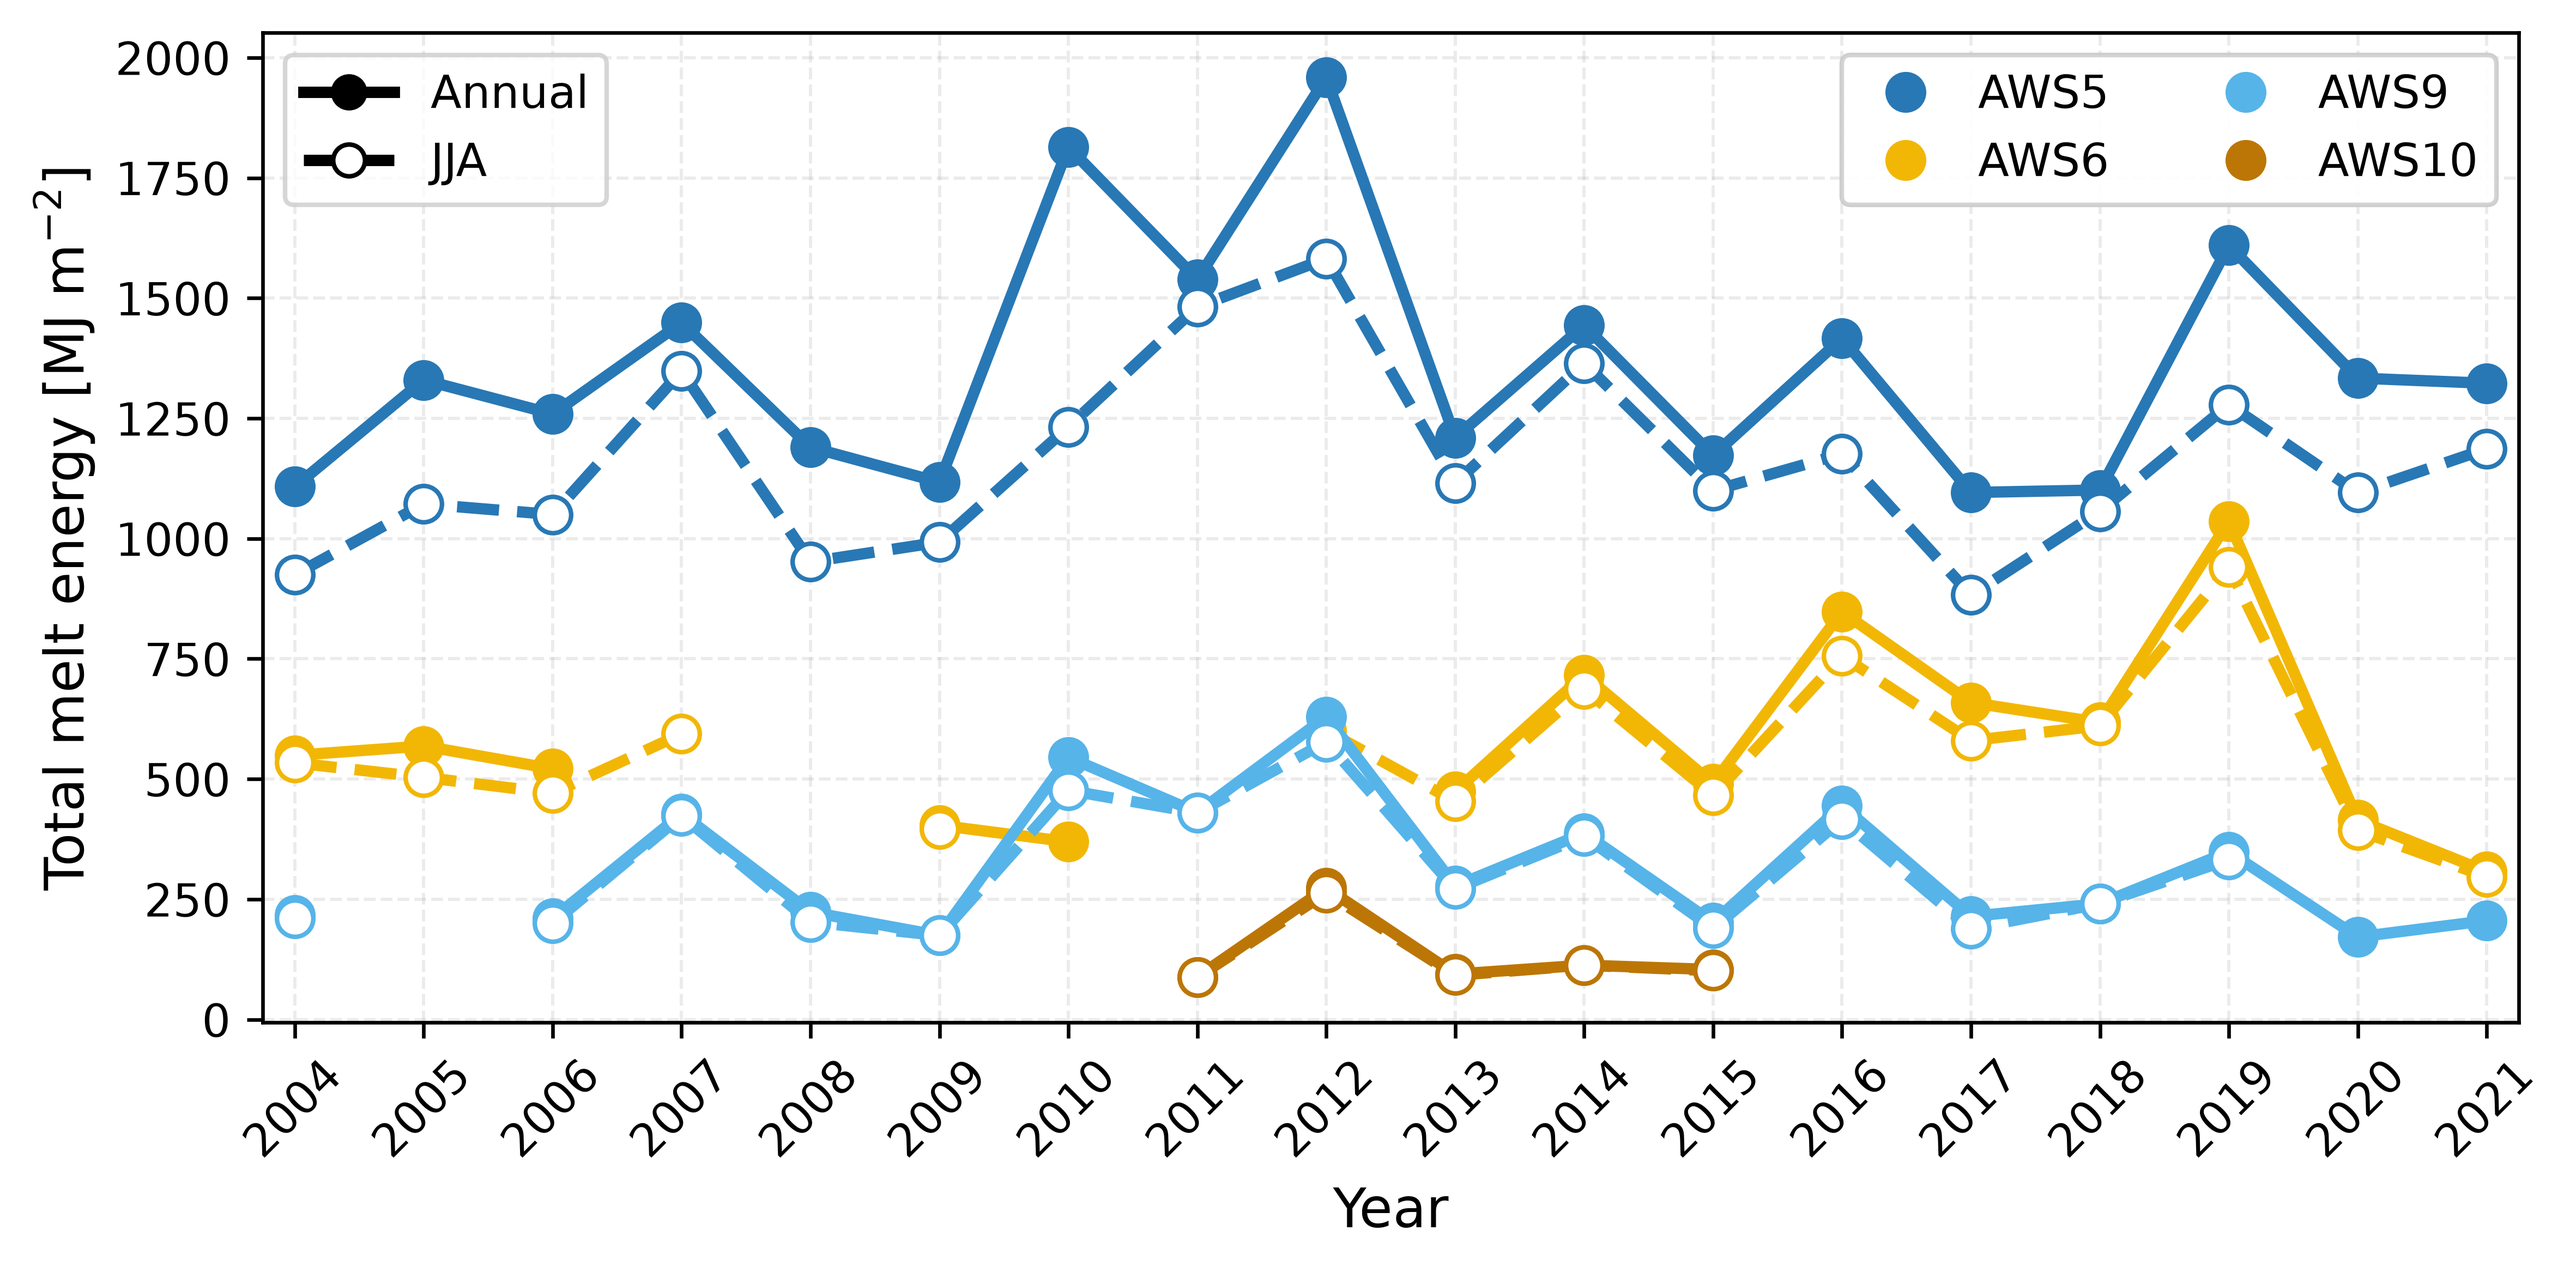
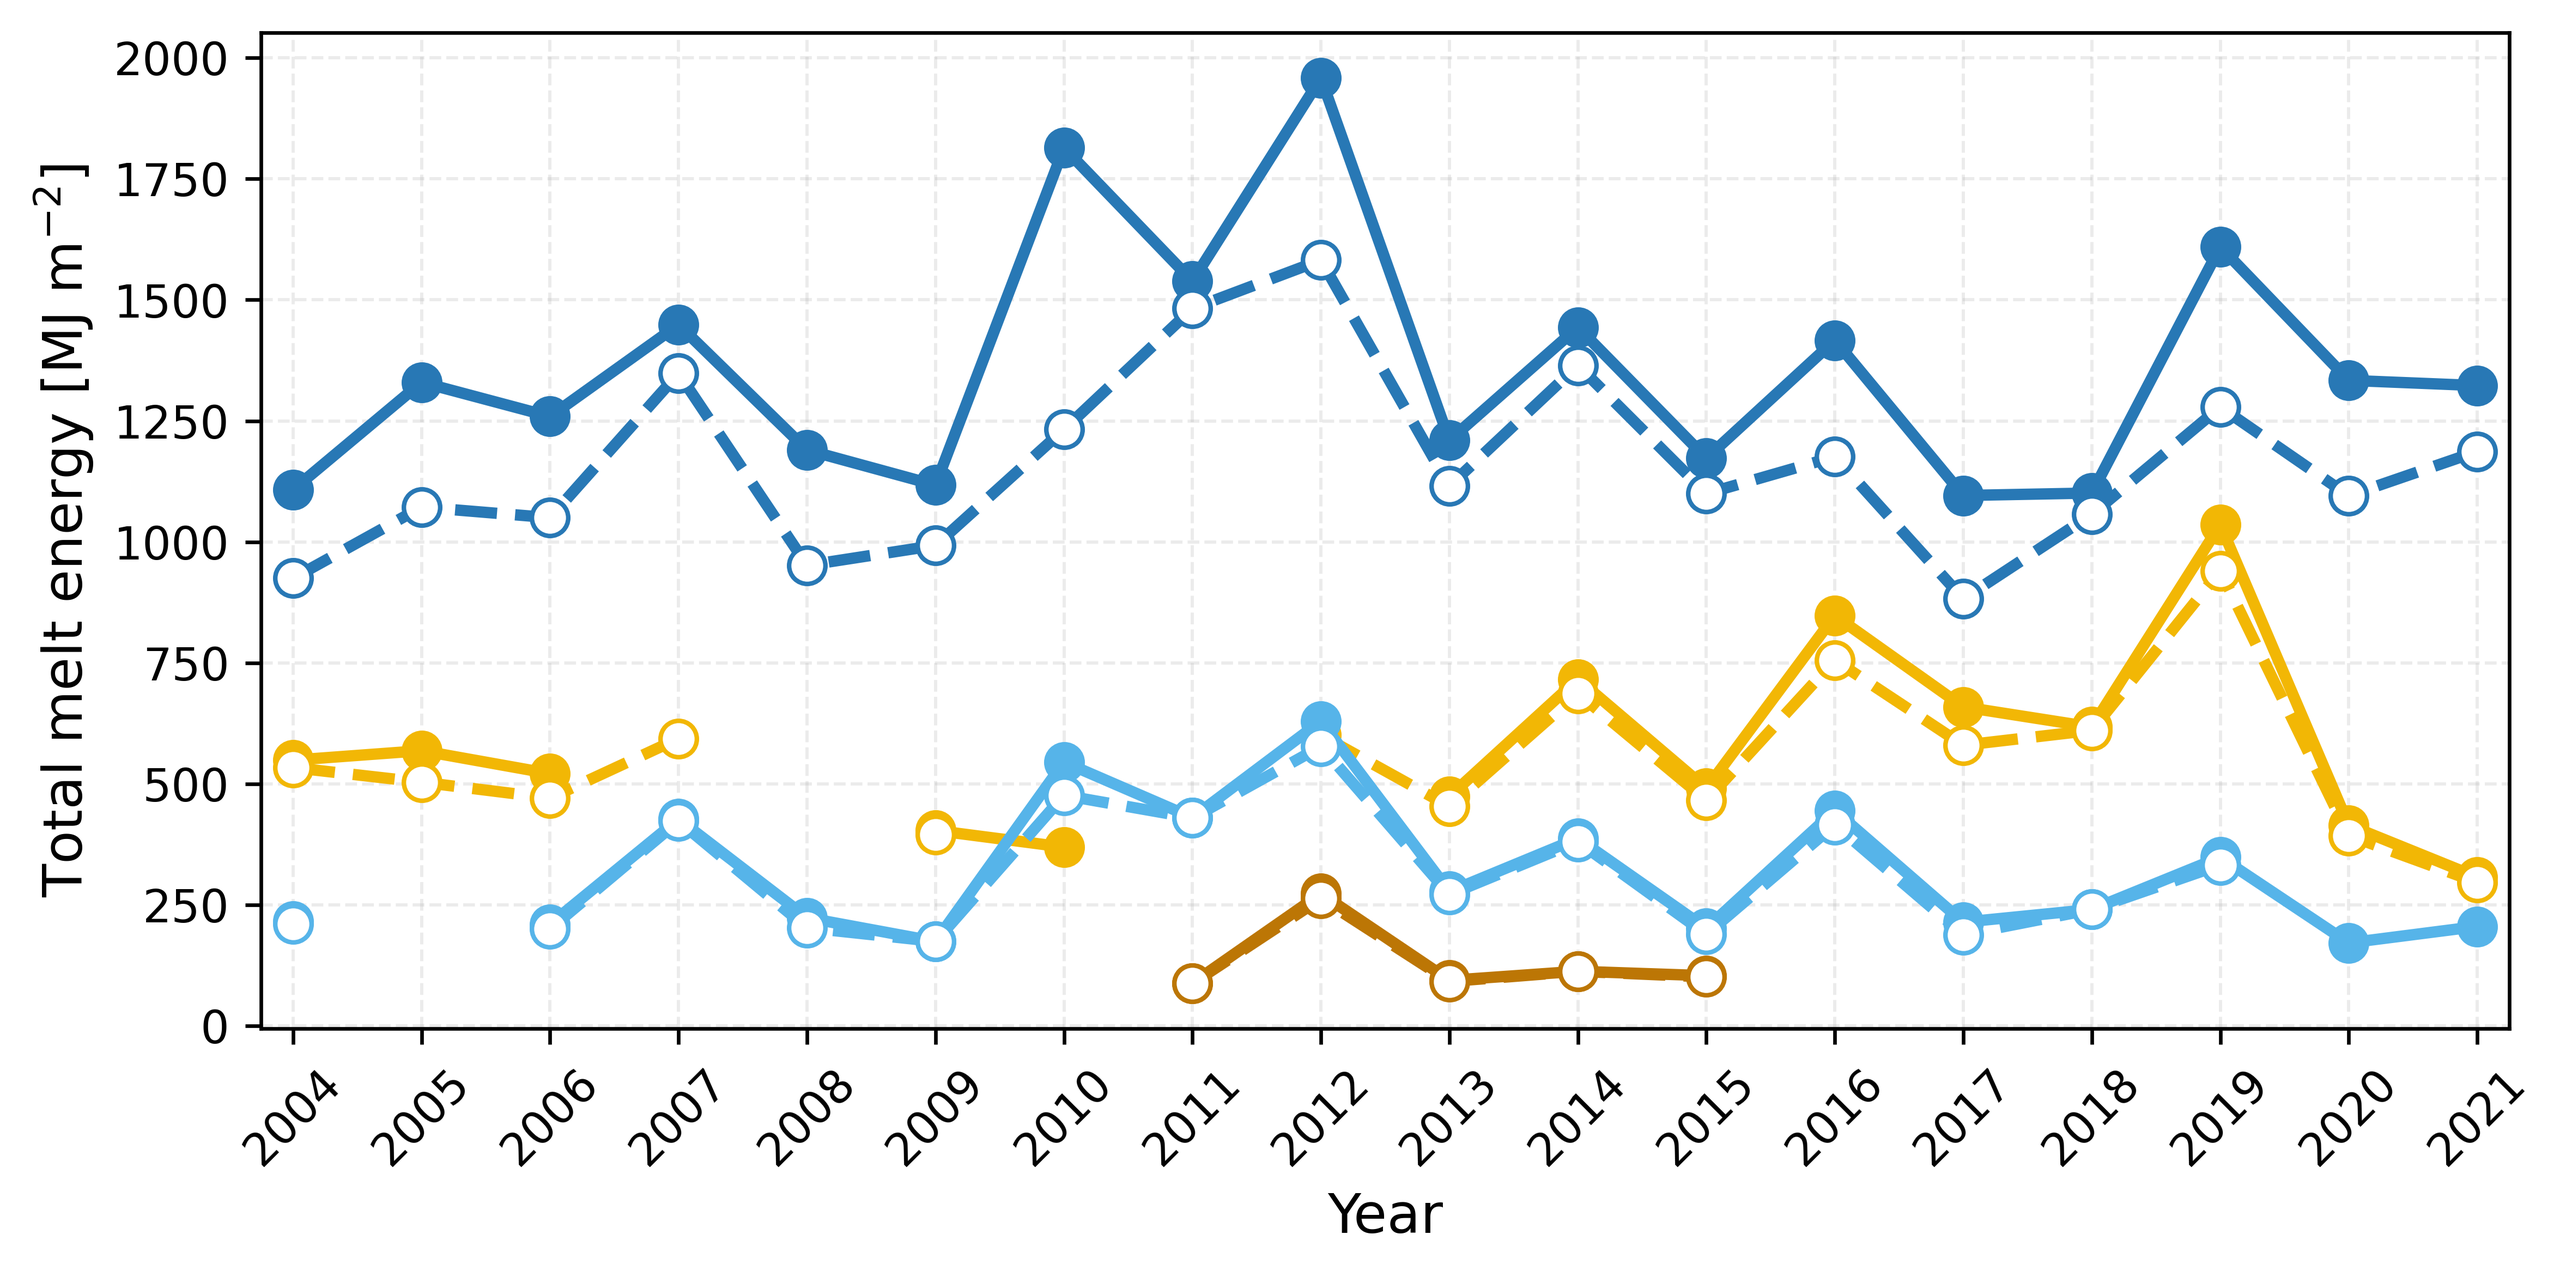
added GHF sensitivity

diff --git a/code/uncertainty.py b/code/uncertainty.py
@@ -46,6 +46,7 @@ SENSITIVITY = {
     "z0m ×2 / ÷2": "onzekerheid ruwheid (factor 2)",
     "meethoogte 2.5 / 4 m": "onbekende sensorhoogte type 0 (standaard 3 m)",
     "smeltdrempel 0.25 / 1 K": "drempel oppervlaktetemperatuur (standaard 0.5 K)",
+    "G +10 / −10 W/m²": "warmtestroom in het ijs, standaard 0 (aanname; orde van grootte uit paper fig. 4)",
 }
 
 # Tabel 3 van Kuipers Munneke et al. (2018): r met JJA-smelt, en R² albedo (fig. 7)
@@ -96,8 +97,8 @@ def jja_melt(ts):
     return g.mean() * JJA_HOURS, cov
 
 
-def run(station, df, z0_factor=1.0, z_default=None, t_tol=None):
-    orig = (mc.z0m_series, mc.Z_DEFAULT, mc.T_MELT_TOL)
+def run(station, df, z0_factor=1.0, z_default=None, t_tol=None, g_flux=None):
+    orig = (mc.z0m_series, mc.Z_DEFAULT, mc.T_MELT_TOL, mc.GROUND_FLUX)
     try:
         if z0_factor != 1.0:
             mc.z0m_series = lambda st, idx: orig[0](st, idx) * z0_factor
@@ -105,9 +106,11 @@ def run(station, df, z0_factor=1.0, z_default=None, t_tol=None):
             mc.Z_DEFAULT = z_default
         if t_tol is not None:
             mc.T_MELT_TOL = t_tol
+        if g_flux is not None:
+            mc.GROUND_FLUX = g_flux
         return jja_melt(mc.melt_aws(station, df))[0]
     finally:
-        mc.z0m_series, mc.Z_DEFAULT, mc.T_MELT_TOL = orig
+        mc.z0m_series, mc.Z_DEFAULT, mc.T_MELT_TOL, mc.GROUND_FLUX = orig
 
 
 def sensitivity(station):
@@ -131,6 +134,7 @@ def sensitivity(station):
         "z0m ×2 / ÷2": (run(station, df, z0_factor=2.0), run(station, df, z0_factor=0.5)),
         "meethoogte 2.5 / 4 m": (run(station, df, z_default=2.5), run(station, df, z_default=4.0)),
         "smeltdrempel 0.25 / 1 K": (run(station, df, t_tol=0.25), run(station, df, t_tol=1.0)),
+        "G +10 / −10 W/m²": (run(station, df, g_flux=10.0), run(station, df, g_flux=-10.0)),
     }
     rows = []
     for name, (up, down) in runs.items():
@@ -223,7 +227,7 @@ def albedo_share_ci(years, seed=1):
 
 def plot_sensitivity(sens, summary, out):
     params = list(SENSITIVITY)
-    fig, axes = plt.subplots(1, len(mc.AWS_STATIONS), figsize=(13, 4.2), sharey=True)
+    fig, axes = plt.subplots(1, len(mc.AWS_STATIONS), figsize=(13, 4.7), sharey=True)
     for ax, st in zip(axes, mc.AWS_STATIONS):
         s = sens[sens["station"] == st].set_index("parameter").reindex(params)
         base = summary.loc[st, "jja_smelt_mm"]
@@ -232,7 +236,8 @@ def plot_sensitivity(sens, summary, out):
         ax.barh(y - 0.2, 100 * s["delta_laag_mm"] / base, height=0.38, color="#a8a7a2", label="second value")
         ax.axvline(0, color="#52514e", lw=0.8)
         ax.set_yticks(y, ["T +0.4 / −0.4 °C", "wind +0.3 / −0.3 m/s", "SW +5 / −5%", "LWD +5 / −5 W/m²",
-                          "z0m ×2 / ÷2", "sensor height 2.5 / 4 m", "melt threshold 0.25 / 1 K"])
+                          "z0m ×2 / ÷2", "sensor height 2.5 / 4 m", "melt threshold 0.25 / 1 K",
+                          "ground heat flux +10 / −10 W/m²"])
         ax.invert_yaxis()
         ax.set_title(f"{st}  (±{summary.loc[st, 'foutmarge_pct']:.0f}% total)", loc="left", fontsize=10)
         ax.set_xlabel("change in JJA melt (%)")

diff --git a/code/elevation_albedo.py b/code/elevation_albedo.py
@@ -80,6 +80,13 @@ def climatological_albedo(alb_daily):
     return clim.rolling(ALB_SMOOTH_DAYS, center=True, min_periods=5).mean()
 
 
+def albedo_spread(alb_daily, q=(0.25, 0.75)):
+    """Spreiding tussen jaren per dag van het jaar (percentielen), net zo gladgestreken."""
+    g = alb_daily.groupby(alb_daily.index.dayofyear)
+    return tuple(g.quantile(x).reindex(range(1, 367))
+                 .rolling(ALB_SMOOTH_DAYS, center=True, min_periods=5).mean() for x in q)
+
+
 def melt_with_clim_albedo(station, df, clim):
     df2 = df.copy()
     a = clim.reindex(df2.index.dayofyear).values
@@ -99,6 +106,7 @@ def jja_summary(station):
     clim = climatological_albedo(alb_d)
     yrs_alb = alb_d.dropna().index.year
     clim.attrs["period"] = f"{yrs_alb.min()}–{yrs_alb.max()}"   # jaren in de klimatologie
+    clim.attrs["p25"], clim.attrs["p75"] = albedo_spread(alb_d)  # variatie tussen jaren
     seb_clim = melt_with_clim_albedo(station, df, clim)
 
     sel = df.index.month.isin(JJA)
@@ -373,12 +381,16 @@ def plot_albedo_experiment(years, out):
 
 def plot_albedo_climatology(clims, years, out):
     fig, (ax1, ax2) = plt.subplots(1, 2, figsize=(12, 4.5))
-    for st, c in clims.items():
-        c = c.loc[120:270]
-        ax1.plot(c.index, c.values, lw=2, color=mc.COLORS[st], label=f"{st} ({c.attrs.get('period', '?')})")
+    for st, c_full in clims.items():
+        c = c_full.loc[120:270]
+        if "p25" in c_full.attrs:
+            lo, hi = c_full.attrs["p25"].loc[120:270], c_full.attrs["p75"].loc[120:270]
+            ax1.fill_between(c.index, lo.values, hi.values, color=mc.COLORS[st], alpha=0.15, lw=0)
+        ax1.plot(c.index, c.values, lw=2, color=mc.COLORS[st], label=f"{st} ({c_full.attrs.get('period', '?')})")
     ax1.set_xlabel("Day of year")
     ax1.set_ylabel("Albedo")
-    ax1.set_title("Climatological albedo (median over all years, 15-day smoothed)")
+    ax1.set_title("Climatological albedo (median over all years, 15-day smoothed)\n"
+                  "band: 25th–75th percentile between years", fontsize=10)
     ax1.legend(frameon=False, ncol=2, loc="upper center", bbox_to_anchor=(0.5, -0.14))
     mc.style(ax1)
     for st in mc.AWS_STATIONS:

diff --git a/code/melt_comparison.py b/code/melt_comparison.py
@@ -62,6 +62,7 @@ RHO_ICE = 910.0         # dichtheid ijs voor omrekenen gemeten verlaging (kg m-3
 
 # Instellingen SEB
 T_MELT_TOL = 0.5        # Ts binnen 0.5 K van smeltpunt -> smeltend oppervlak
+GROUND_FLUX = 0.0       # warmtestroom uit het ijs naar het oppervlak (W/m2, + = naar oppervlak); 0 = verwaarloosd
 MIN_COVERAGE = 0.8      # minimale datadekking per periode, anders NaN
 Z_DEFAULT = 3.0         # meethoogte (m) als die niet bekend is
 LWU_MELT = SIGMA * T0**4  # uitgaande langgolvige straling van smeltend oppervlak
@@ -218,7 +219,7 @@ def seb_melt(swd, swu, lwd, lwu, shf, lhf, t_s):
     lwu_eff = np.where(melting, LWU_MELT, lwu)
     swnet = swd.clip(lower=0) - swu.clip(lower=0)
     lwnet = lwd - lwu_eff
-    q = swnet + lwnet + shf + lhf
+    q = swnet + lwnet + shf + lhf + GROUND_FLUX
     m = np.where(melting, np.maximum(q, 0), 0.0)
     m = np.where(np.isnan(q), np.nan, m)
     return pd.DataFrame({"SWnet": swnet, "LWnet": lwnet, "SHF": shf, "LHF": lhf,

diff --git a/code/paper_reproduction.py b/code/paper_reproduction.py
@@ -394,8 +394,8 @@ def plot_annual_jja_melt(stations=STATIONS, out="figure8_annual_jja_melt.png"):
 
     leg1 = ax.legend(
         handles=style_handles,
-        loc="upper left",
-        frameon=True)
+        loc="lower left", bbox_to_anchor=(0, 1.01),
+        frameon=False)
 
     ax.add_artist(leg1)
 
@@ -410,8 +410,8 @@ def plot_annual_jja_melt(stations=STATIONS, out="figure8_annual_jja_melt.png"):
 
     leg2 = ax.legend(
         handles=station_handles,
-        loc="upper right", ncol=2,
-        frameon=True,
+        loc="lower right", bbox_to_anchor=(1, 1.01), ncol=2,
+        frameon=False,
         labelcolor="black",
         handletextpad=0.6)
 

diff --git a/resultaten.md b/resultaten.md
@@ -102,7 +102,7 @@ Met maar vier stations zijn deze gradiënten onzeker. Hoofdstuk 3 geeft de betro
 
 - **De smeltgradiënt is stabiel:** in elk jaar ligt hij tussen −210 en −310 mm w.e. per 100 m.
 - **Voelbare warmte past niet bij een rechte lijn:** AWS5 springt eruit met ~95 W/m², tegen ~22 W/m² bij AWS6.
-- **Het albedo neemt niet gewoon toe met de hoogte:** in augustus is AWS6 het donkerst van alle stations (albedo ~0.45, tegen ~0.52 bij AWS5). Dat past bij de bekende donkere zone van de K-transect ([figuur](output/elevation/albedo_climatology.png)).
+- **Het albedo neemt niet gewoon toe met de hoogte:** in augustus is AWS6 het donkerst van alle stations (albedo ~0.45, tegen ~0.52 bij AWS5). Dat past bij de bekende donkere zone van de K-transect ([figuur](output/elevation/albedo_climatology.png); de banden geven het 25e–75e percentiel tussen de jaren). De variatie tussen jaren is het grootst bij AWS6 en AWS9 in juli en augustus: daar hangt het albedo af van wanneer de sneeuw verdwijnt.
 
 **Albedo-experiment** ([figuur](output/elevation/albedo_contribution.png)):
 
@@ -139,6 +139,7 @@ Over alleen de jaren vóór de wissel is er geen trend in temperatuur of voelbar
    | z0m ×2 en ÷2 | onzekerheid ruwheid |
    | meethoogte oud stationstype 2.5 en 4 m (standaard 3 m) | echte hoogte onbekend |
    | smeltdrempel 0.25 en 1 K (standaard 0.5 K) | modelkeuze |
+   | warmtestroom in het ijs (G) +10 en −10 W/m² (standaard 0) | niet gemodelleerd; orde van grootte uit fig. 4 van het paper (aanname) |
 
    De totale foutmarge is de wortel van de kwadratensom van de afzonderlijke effecten, in de aanname dat de fouten onafhankelijk zijn.
 2. **Validatie met betrouwbaarheidsintervallen.** Voor berekend tegen gemeten smelt per maand: r met 95%-interval (Fisher-z), en de gemiddelde afwijking met 95%-interval (t-verdeling).
@@ -151,14 +152,15 @@ Over alleen de jaren vóór de wissel is er geen trend in temperatuur of voelbar
 
 | Station | Gem. JJA-smelt | Foutmarge totaal | Zonder smeltdrempel |
 |---|---|---|---|
-| AWS5 | 3559 mm w.e. | ±23% | ±13% |
-| AWS6 | 1697 mm w.e. | ±25% | ±8% |
-| AWS9 | 951 mm w.e. | ±24% | ±8% |
-| AWS10 | 396 mm w.e. | ±27% | ±11% |
+| AWS5 | 3559 mm w.e. | ±23% | ±14% |
+| AWS6 | 1697 mm w.e. | ±25% | ±10% |
+| AWS9 | 951 mm w.e. | ±25% | ±11% |
+| AWS10 | 396 mm w.e. | ±29% | ±16% |
 
 - **De smeltdrempel is overal de grootste foutbron** (±19–24%). Of een tijdstap als smeltend telt, hangt af van de oppervlaktetemperatuur uit LWU binnen een paar tienden van een graad. Het paper heeft dit probleem niet, omdat het de oppervlaktetemperatuur met een model berekent.
 - **Bij AWS5 komt de ruwheid op de tweede plaats:** +13% bij z0m ×2 en −6% bij z0m ÷2. Daarna volgt de temperatuur (±6%).
 - **Hoger op de ijskap** wegen de straling en de temperatuur het zwaarst (elk ±4–6%). Ruwheid, wind en meethoogte doen daar nauwelijks iets (<1%).
+- **De warmtestroom in het ijs (G ±10 W/m²)** geeft ±4% bij AWS5, ±6% bij AWS6, ±8% bij AWS9 en ±12% bij AWS10. Het effect in mm w.e. is ongeveer even groot als bij de andere bronnen, maar hoe minder er smelt, hoe zwaarder het relatief weegt. Hoog op de ijskap is G daarom na de smeltdrempel de grootste foutbron. Omdat het model G weglaat, telt die mee in de kolom "zonder smeltdrempel".
 
 **Validatie met betrouwbaarheidsintervallen** (per maand, maanden met meer dan 50 mm):
 
@@ -241,7 +243,7 @@ De punten staan per groep, binnen elke groep van grootste naar kleinste invloed 
    - De smelt bij AWS5 verandert +13% / −6% bij een factor 2 in z0m (hoofdstuk 3).
 2. **De meethoogte staat vast op 3 m voor het oude stationstype** (`Z_DEFAULT`). De werkelijke hoogtes staan in de metadata-xlsx van PANGAEA, maar worden niet gebruikt. Wind en temperatuur worden ook op verschillende hoogtes gemeten.
 3. **Geen warmtestroom in het ijs, en een harde smeltdrempel.**
-   - Alle energie bij een oppervlak op 0 °C gaat naar smelt. In het voorjaar moet eerst het koude ijs opwarmen, dus de smelt wordt dan overschat.
+   - Alle energie bij een oppervlak op 0 °C gaat naar smelt. In het voorjaar moet eerst het koude ijs opwarmen, dus de smelt wordt dan overschat. G staat als constante `GROUND_FLUX` (standaard 0) in de code. Een vaste ±10 W/m² verandert de zomersmelt met ±4% (AWS5) tot ±12% (AWS10), zie hoofdstuk 3.
    - Of er smelt is, hangt af van de oppervlaktetemperatuur binnen 0.5 K van het smeltpunt (`T_MELT_TOL`). Die temperatuur komt uit LWU met emissiviteit 1. Een meetfout van enkele W/m² in LWU kan daardoor het verschil maken tussen wel en geen smelt. Bij SHR vallen veel dagen net onder de drempel. Dit is de grootste foutbron: een drempel van 0.25 of 1 K verandert de zomersmelt met ±19–24% (hoofdstuk 3).
 4. **SHR heeft geen eigen stralingsmeting** (`melt_flux`). SWD, SWU en LWD komen van AWS5, en het albedo van AWS5 past waarschijnlijk niet bij SHR. Uitspraken over hoeveel SHR smelt zijn daardoor zwak. Data van KAN_L (PROMICE) zou dit oplossen.
 5. **De gemeten smelt is alleen bruikbaar bij kaal ijs.** De akoestische hoogtemeter meet ook sneeuwval, maar alles wordt omgerekend met ijsdichtheid (`RHO_ICE`). Sneeuwval telt dan als negatieve smelt. Daarom is de validatie bij AWS9 en AWS10 niet bruikbaar.
